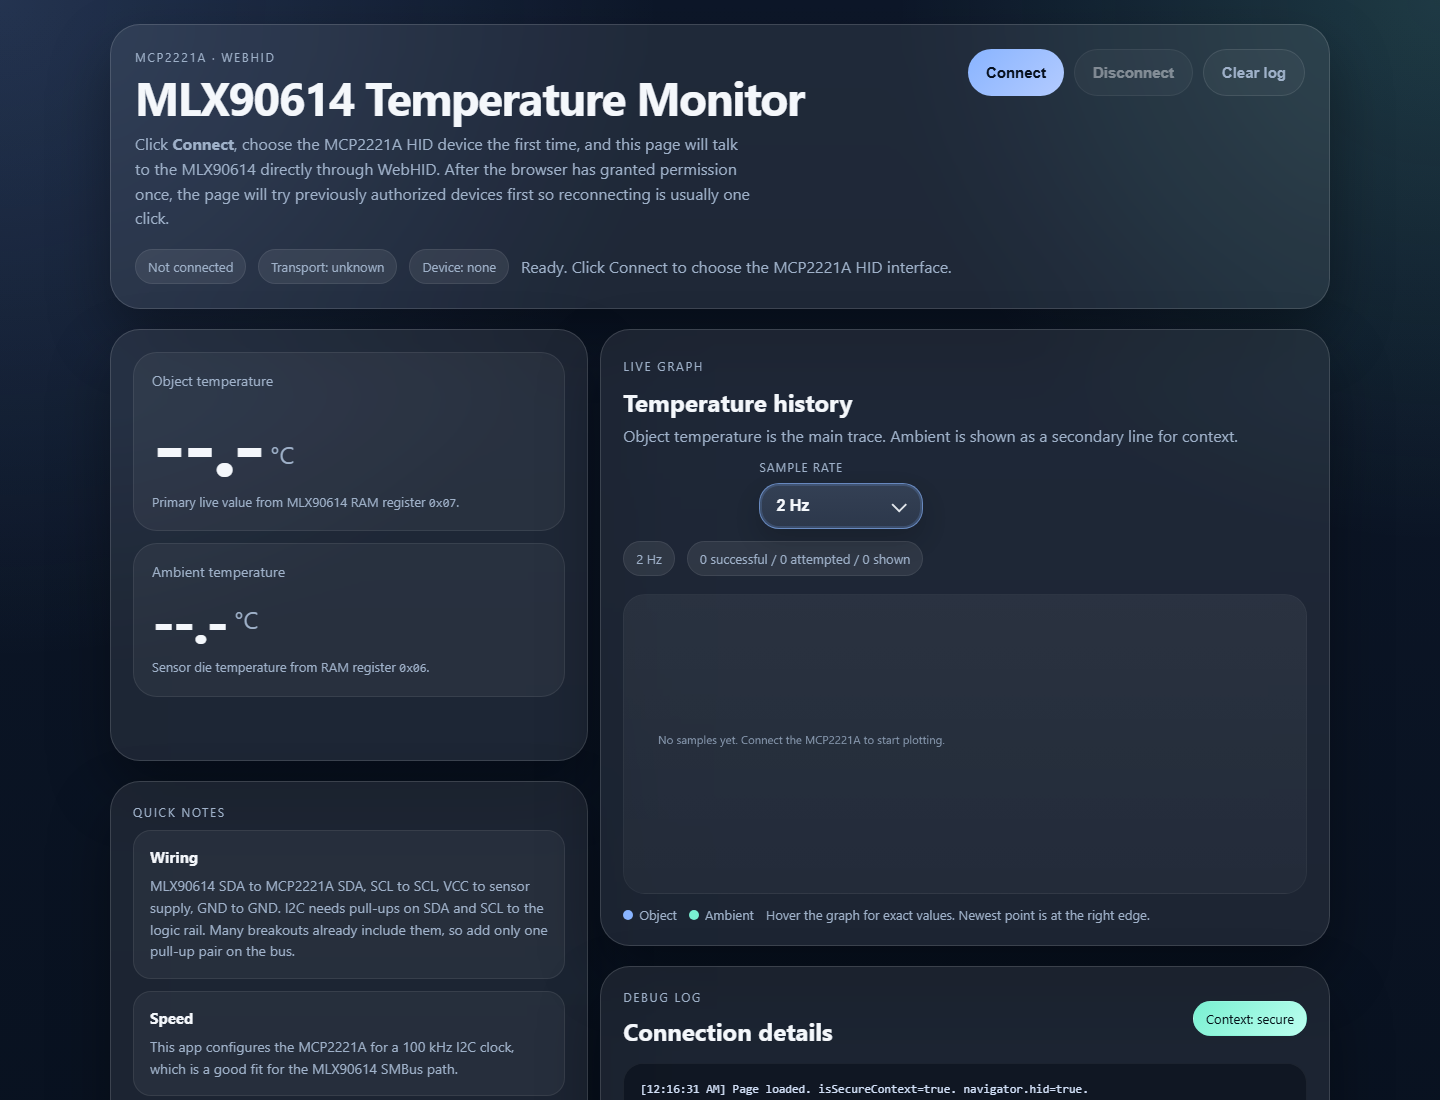
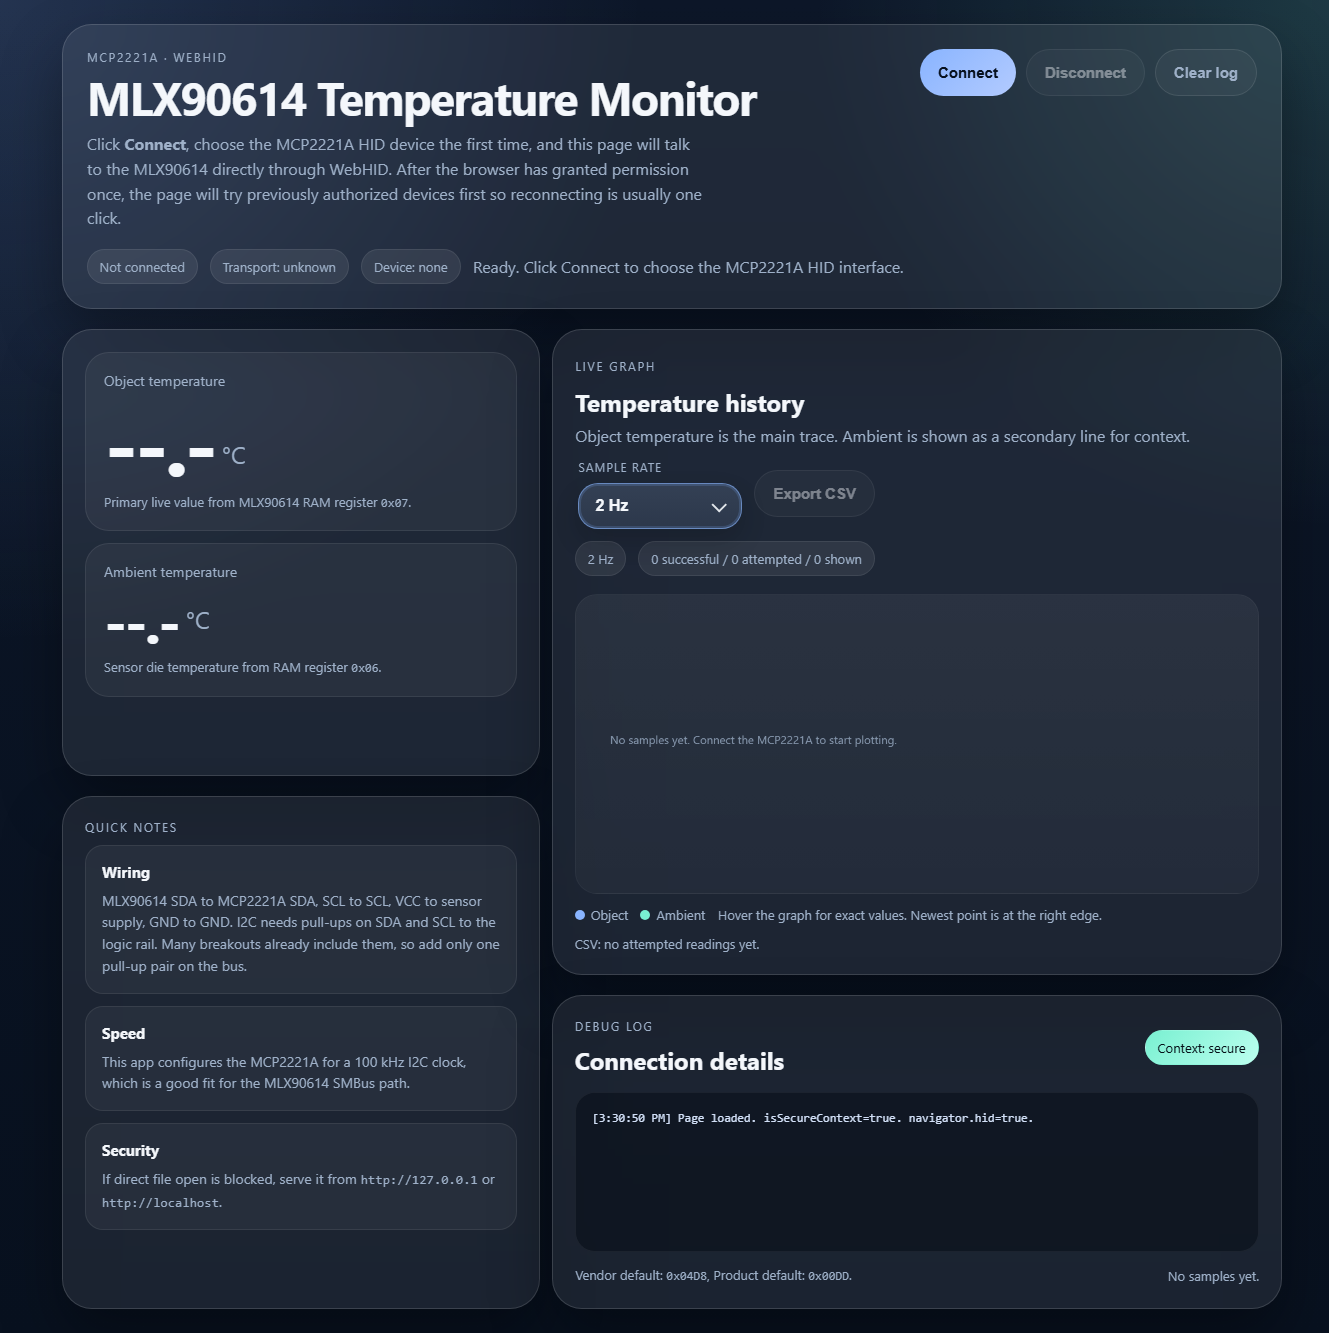
Add infrared dashboard CSV export and explain host timestamps

diff --git a/08_Software/mlx90614-webhid/mlx.html b/08_Software/mlx90614-webhid/mlx.html
@@ -615,6 +615,7 @@
                     </div>
                   </div>
                 </div>
+                <button id="exportCsvBtn" class="secondary" type="button" aria-describedby="csvMeta" disabled>Export CSV</button>
               </div>
               <div class="chip-row">
                 <span id="samplePill" class="pill">2 Hz</span>
@@ -632,6 +633,7 @@
             <span><span class="legend-dot dot-object"></span>Object</span>
             <span><span class="legend-dot dot-ambient"></span>Ambient</span>
             <span class="dim">Hover the graph for exact values. Newest point is at the right edge.</span>
+            <span id="csvMeta" class="dim">CSV: no attempted readings yet.</span>
           </div>
         </section>
 
@@ -662,6 +664,7 @@
     const I2C_CLOCK_HZ = 100000;
     const DEFAULT_SAMPLE_RATE_HZ = 2;
     const MAX_POINTS = 5000;
+    const MAX_CSV_ROWS = 10000;
     const MAX_LOG_LINES = 700;
     const INPUT_TIMEOUT_MS = 900;
     const OK_LOG_INTERVAL_MS = 1000;
@@ -670,6 +673,8 @@
     const els = {
       connectBtn: document.getElementById('connectBtn'),
       disconnectBtn: document.getElementById('disconnectBtn'),
+      exportCsvBtn: document.getElementById('exportCsvBtn'),
+      csvMeta: document.getElementById('csvMeta'),
       clearLogBtn: document.getElementById('clearLogBtn'),
       statusPill: document.getElementById('statusPill'),
       modePill: document.getElementById('modePill'),
@@ -701,6 +706,7 @@
       inputQueue: [],
       inputWaiters: [],
       history: [],
+      csvRows: [],
       totalSamples: 0,
       sampleAttempts: 0,
       lastReadAt: null,
@@ -817,6 +823,43 @@
       state.lastReadAt = Date.now();
       updateSampleMeta();
       drawChart();
+    }
+
+    function updateCsvMeta() {
+      els.exportCsvBtn.disabled = state.csvRows.length === 0;
+      els.csvMeta.textContent = state.csvRows.length
+        ? 'CSV: ' + state.csvRows.length.toLocaleString() + ' of ' + state.sampleAttempts.toLocaleString() + ' attempted readings retained (including errors).'
+        : 'CSV: no attempted readings yet.';
+    }
+
+    function retainCsvRow(row) {
+      state.csvRows.push(row);
+      if (state.csvRows.length > MAX_CSV_ROWS) state.csvRows.shift();
+      updateCsvMeta();
+    }
+
+    function csvCell(value) {
+      const text = String(value ?? '');
+      return /[",\r\n]/.test(text) ? '"' + text.replace(/"/g, '""') + '"' : text;
+    }
+
+    function buildCsv() {
+      const fields = ['sequence', 'timestamp_ms', 'timestamp_utc', 'status', 'object_c', 'ambient_c',
+        'object_raw', 'ambient_raw', 'acquisition_ms', 'recovered_register_reads', 'error_code', 'error'];
+      return [fields.join(','), ...state.csvRows.map(row => fields.map(field => csvCell(row[field])).join(','))].join('\r\n') + '\r\n';
+    }
+
+    function exportCsv() {
+      if (!state.csvRows.length) return;
+      const url = URL.createObjectURL(new Blob([buildCsv()], { type: 'text/csv;charset=utf-8' }));
+      const link = document.createElement('a');
+      link.href = url;
+      link.download = 'mlx90614_' + new Date().toISOString().replace(/[:.]/g, '-') + '.csv';
+      document.body.appendChild(link);
+      link.click();
+      link.remove();
+      setTimeout(() => URL.revokeObjectURL(url), 1000);
+      log('Exported CSV: ' + state.csvRows.length + ' of ' + state.sampleAttempts + ' attempted readings retained, including errors.');
     }
 
     function crc8(bytes) {
@@ -1302,9 +1345,32 @@
     async function sampleSensor() {
       state.sampleAttempts += 1;
       updateSampleMeta();
-      const ambient = await readValidatedMlxWord(MLX_RAM_AMBIENT, 'Ambient');
-      await sleep(state.sampleRateHz >= 10 ? 2 : 4);
-      const object = await readValidatedMlxWord(MLX_RAM_OBJECT_1, 'Object');
+      const started = performance.now();
+      const recoveredBefore = state.totalRecoveredReads;
+      const row = { sequence: state.sampleAttempts, status: 'error', object_c: '', ambient_c: '',
+        object_raw: '', ambient_raw: '', error_code: '', error: '' };
+      let ambient, object;
+      try {
+        ambient = await readValidatedMlxWord(MLX_RAM_AMBIENT, 'Ambient');
+        row.ambient_raw = hex(ambient.raw, 4);
+        await sleep(state.sampleRateHz >= 10 ? 2 : 4);
+        object = await readValidatedMlxWord(MLX_RAM_OBJECT_1, 'Object');
+        row.object_raw = hex(object.raw, 4);
+        row.object_c = Number(object.celsius.toFixed(4));
+        row.ambient_c = Number(ambient.celsius.toFixed(4));
+        row.status = 'ok';
+      } catch (error) {
+        row.error_code = error.code || '';
+        row.error = error.message || String(error);
+        throw error;
+      } finally {
+        // Host read completion, not the sensor's conversion time. Duration includes retries and waits.
+        row.timestamp_ms = Date.now();
+        row.timestamp_utc = new Date(row.timestamp_ms).toISOString();
+        row.acquisition_ms = Number((performance.now() - started).toFixed(4));
+        row.recovered_register_reads = state.totalRecoveredReads - recoveredBefore;
+        retainCsvRow(row);
+      }
 
       setTemps(object.celsius, ambient.celsius);
       addPoint(object.celsius, ambient.celsius);
@@ -1541,8 +1607,10 @@
         state.device = selectedDevice;
         state.transport = selectedTransport;
         state.history = [];
+        state.csvRows = [];
         state.totalSamples = 0;
         state.sampleAttempts = 0;
+        updateCsvMeta();
         state.lastReadAt = null;
         state.reconnectingAfterReset = false;
       state.hoverIndex = null;
@@ -1828,6 +1896,7 @@
 
     els.connectBtn.addEventListener('click', connect);
     els.disconnectBtn.addEventListener('click', () => disconnect());
+    els.exportCsvBtn.addEventListener('click', exportCsv);
     els.clearLogBtn.addEventListener('click', clearLog);
     els.sampleRateButton.addEventListener('click', event => {
       event.stopPropagation();

diff --git a/08_Software/mlx90614-webhid/README.md b/08_Software/mlx90614-webhid/README.md
@@ -26,7 +26,7 @@ Local serving requires Python 3. Checks require Node.js or installed desktop Vis
    powershell -NoProfile -ExecutionPolicy Bypass -File .\08_Software\mlx90614-webhid\tools\Check-Html.ps1 -Diagnostics
    ```
 
-   Expect `PASS` for active HTML and baseline syntax, then six diagnostic checks. Stop on any error. These tests use simulated failures and do not open USB hardware. On macOS/Linux or with Node already installed, run from the repository root:
+   Expect `PASS` for active HTML and baseline syntax, then eight diagnostic/CSV checks. Stop on any error. These tests use simulated failures and do not open USB hardware. On macOS/Linux or with Node already installed, run from the repository root:
 
    ```sh
    node 08_Software/mlx90614-webhid/tools/check_html.mjs
@@ -49,11 +49,31 @@ Local serving requires Python 3. Checks require Node.js or installed desktop Vis
 
 7. If a read fails, retain the debug log. An example failed-attempt entry is `Ambient register 0x06 read failed (attempt 1/2): ...`; the real message explains the failure. A transient failure displays **Retrying** while waiting for a valid pair. A startup error such as `I2C speed set failed ... 0x21` is a failure, even if SCL/SDA were high at one instant. Do not call the connection recovered until readings resume.
 
-8. Click **Disconnect** before closing the tab. Return to the server terminal and press **Ctrl+C**; the PowerShell prompt returning confirms the server stopped. Unplug the bridge only after its clients are closed if needed. The app keeps data in memory; reloading clears the displayed chart/log.
+8. Click **Export CSV** beside the chart's sample-rate control. Expect a file named `mlx90614_<UTC date-time>.csv` in Chrome/Edge's download folder; open **Downloads** with **Ctrl+J** to locate it. Export includes the latest **10,000 attempted pairs**, including errors, while the chart keeps the latest 5,000 successful pairs. The chart footer states retained/attempted CSV counts. Export can run during acquisition or after disconnecting. If the button is disabled, no reading attempt has completed yet. Export before reconnecting or reloading, which clear the CSV buffer.
 
-Optional direct-file method: in **File Explorer**, locate `08_Software\mlx90614-webhid\mlx.html`, right-click **Open with > Google Chrome** or **Microsoft Edge**, then follow steps 5–8. If device access is blocked under `file://`, use the loopback server above. The loopback method is the documented reference.
+9. Click **Disconnect** before closing the tab. Return to the server terminal and press **Ctrl+C**; the PowerShell prompt returning confirms the server stopped. Unplug the bridge only after its clients are closed if needed. The app keeps data in memory; reloading clears the displayed chart/log and CSV buffer. Downloaded files remain on your computer.
+
+Optional direct-file method: in **File Explorer**, locate `08_Software\mlx90614-webhid\mlx.html`, right-click **Open with > Google Chrome** or **Microsoft Edge**, then follow steps 5-9. If device access is blocked under `file://`, use the loopback server above. The loopback method is the documented reference.
 
 Optional VS Code tasks: choose **Terminal > Run Task > Check HTML and simulated diagnostics**, or **Serve MLX90614 app on localhost:8000**. Stop the server with Ctrl+C in its dedicated task terminal. The server task requires Python on PATH.
+
+## CSV columns and timing
+
+One row represents one attempted ambient/object pair, including the initial connection sample. `ok` requires both validated words; a failed partial pair has blank Celsius values and retains any validated partial raw word. Register retries remain in the debug log and are included in the acquisition duration.
+
+| Column | Meaning |
+| --- | --- |
+| `sequence` | Attempt number within this connection; remains unchanged when older rows leave the buffer |
+| `timestamp_ms` | PC read-completion time, Unix milliseconds since `1970-01-01T00:00:00Z` |
+| `timestamp_utc` | The same completion time as a readable ISO UTC date, ending in `Z` |
+| `status` | `ok` or `error` for the complete pair |
+| `object_c`, `ambient_c` | Valid pair temperatures in Celsius; blank for failed pairs |
+| `object_raw`, `ambient_raw` | Validated 16-bit sensor words in hexadecimal, prefixed `0x`; unavailable words are blank |
+| `acquisition_ms` | Elapsed host time for the pair, including USB/I2C operations, retry waits and the inter-register delay; measured using a monotonic clock |
+| `recovered_register_reads` | Number of registers that succeeded after a retry within this pair |
+| `error_code`, `error` | Final pair failure code, when available, and message; blank for successful pairs |
+
+For example, `timestamp_ms = 1791662872046` is `2026-10-10T20:07:52.046Z`, or **October 10 at 1:07:52.046 PM PDT**. `acquisition_ms = 23.7189` is a **23.7189 ms read duration**. These are host timings; the sensor does not supply its conversion timestamp. The local chart displays times in the browser's timezone. Export saves a snapshot without clearing the buffer or stopping acquisition. Download periodically during long sessions; older attempts beyond 10,000 are discarded, and exporting does not append to a previous download.
 
 ## Reuse, editing and restart
 

diff --git a/05_Data/VALIDATION.md b/05_Data/VALIDATION.md
@@ -13,12 +13,15 @@ Updated: **2026-10-10**. This record separates software/publication checks, meas
 | Simulated pair accounting | PASS: a partial pair is not plotted; successful and attempted pair counts differ correctly |
 | Simulated failure status | PASS: failed poll logged, counted and shown as waiting for a valid sample; no premature recovery claim |
 | Simulated bounded log | PASS: latest 700 lines retained and rendered with real newline characters |
+| MLX90614 CSV accounting and format | PASS: valid and failed pairs retained, failed partial temperatures blank, validated partial raw words kept, UTC/Unix completion timestamps agree, acquisition duration and recovered-register count exported; commas, quotes and embedded error newlines correctly escaped. Eight diagnostic/CSV checks passed without USB access. |
+| MLX90614 CSV retention | PASS: at attempt 10,001 the newest 10,000 rows are retained with original sequence numbers; retained/attempted counts disclosed in the chart footer. Reconnection clears the buffer; disconnect and export retain it. |
+| MLX90614 Chrome CSV download | PASS: actual button downloaded exact CSV bytes for three simulated attempts (two valid, one failed), with the error preserved; empty-state button disabled, export retains the buffer, 390 px layout has no horizontal overflow, zero JavaScript exceptions. No physical bridge was opened. Disconnected README screenshot updated. |
 | Chrome local smoke | PASS: edited HTML initializes over temporary loopback HTTP; browser exit 0, expected title/Connect/five rates, secure context and `navigator.hid=true`. No Connect click/USB operation occurred. Temporary server/profile cleaned up. |
 | Project links/configuration | Final Markdown, task JSON, workflow packaging and current manifest checked before initial commit |
 | Privacy review | Public candidates, selected logs, cropped image, original text and ZIP contents reviewed; no credential/private-key patterns or confidential content identified. Local backups/ZIPs/older apps/helper binaries excluded by ignore rules. |
 | GitHub repository | PASS: [robomaniac/mlx90614-mcp2221a](https://github.com/robomaniac/mlx90614-mcp2221a) is PUBLIC with default branch main; reviewed files pushed using existing verified Git credentials in memory and a noreply commit identity |
 | GitHub Pages deployment | PASS: [initial validation and deploy jobs](https://github.com/robomaniac/mlx90614-mcp2221a/actions/runs/38032744375) succeeded; workflow publishing with HTTPS enforced |
[2 lines of base64/hex data omitted]
 | README refresh (2026-10-10) | Public browser-app/hardware-library examples and existing folder guidance reviewed. Root README rewritten for project users; actual disconnected-interface screenshot captured and inspected, with no private information or invented sensor readings. Documentation links, UTF-8, privacy patterns and manifest rechecked. |
 | Browser hardware after edits | **Pending**. No physical bridge/sensor session using the edited browser HTML; its measured rate, reconnect reliability and accuracy remain unverified. Native-demo results below do not validate browser transport. |
 | Separate native demo (2026-10-10) | PASS: Windows x64 CPython 3.11.15, Cython 3.3.0, HIDAPI 0.15.0 and portable Zig 0.15.2 build/import. All 23 fake-HID/scheduler tests passed, covering validation, reset guard, retained failures, window/deadline accounting, interrupts, unpaced operation without target waits and stopping after failed cancellation. |

diff --git a/README.md b/README.md
@@ -18,6 +18,7 @@ I wanted a simple way to see infrared temperature readings and a live graph with
 - **1, 2, 4, 5 and 10 Hz** sample-rate controls.
 - Remembered device permission for easier reconnecting.
 - Successful and attempted sample counts, with failed reads retained in the debug log.
+- **CSV export** of the latest 10,000 attempted pairs, including errors, readable UTC timestamps and acquisition duration.
 - One HTML file with embedded CSS and JavaScript; processing stays in your browser.
 
 ## Use it
@@ -26,7 +27,8 @@ I wanted a simple way to see infrared temperature readings and a live graph with
 2. Select **2 Hz** and click **Connect**. Choose the MCP2221A in the device chooser if prompted; previously granted permission may be reused automatically.
 3. Expect changing object/ambient readings and growing chart points. Hover over the chart to inspect individual samples. The debug log should show an initial sample and periodic `Read OK` entries.
 4. Try other sample rates as needed. **10 Hz is a requested rate**; actual successful throughput depends on the hardware and read retries. Keep failed-read logs when troubleshooting.
-5. Click **Disconnect** before closing the tab. Reloading starts a fresh chart and log.
+5. Click **Export CSV** beside the sample-rate control to save the retained readings to your browser's download folder. Export works while reading or after **Disconnect**; it does not stop acquisition. The chart footer shows how many attempts remain available.
+6. Click **Disconnect** before closing the tab. Export before reconnecting or reloading; these start a fresh chart and CSV buffer.
 
 For local editing, follow the [complete VS Code / PowerShell setup guide](08_Software/mlx90614-webhid/README.md#local-setup-and-operation). It includes exact check/server commands, expected results, restart instructions and cleanup. An existing local server can be reused after saving and reloading the HTML; there is no build or firmware-flash step.
 

diff --git a/08_Software/qwiic-thermocouple/README.md b/08_Software/qwiic-thermocouple/README.md
@@ -85,6 +85,21 @@ The actual sensor returned device ID **`0x4014`**, sensor configuration **`0x00`
 
 Use the board's actual signal labels and existing compatible pull-ups. Connect the thermocouple to the amplifier's marked **+ / −** terminals or matching PCC connector. See the [SparkFun hookup guide](https://learn.sparkfun.com/tutorials/sparkfun-qwiic-thermocouple-hookup-guide), [board hardware](https://github.com/sparkfun/Qwiic_Thermocouple_Amplifer), and [Microchip datasheet](https://ww1.microchip.com/downloads/en/DeviceDoc/MCP960X-L0X-RL0X-Data-Sheet-20005426F.pdf).
 
+## CSV timestamps and columns
+
+| Column | Meaning |
+| --- | --- |
+| `sequence` | Attempt number within this connection, including failed attempts |
+| `timestamp_ms` | Time the PC finished the read attempt, in Unix milliseconds since `1970-01-01T00:00:00Z` |
+| `status` | `ok` for a valid pair, or `error` for a failed pair |
+| `hot_c`, `cold_c` | Thermocouple tip and board cold-junction temperatures in Celsius |
+| `hot_raw`, `cold_raw` | Sensor temperature words in hexadecimal, decoded as signed 16-bit values at 0.0625 °C/LSB |
+| `sensor_status` | Status-register byte as a decimal integer |
+| `acquisition_ms` | Duration of the status → probe → board → status USB/I2C read, in milliseconds; measured using the host's monotonic clock |
+| `error_code`, `error` | Failure code and message; blank for successful pairs |
+
+In the example `timestamp_ms = 1791662872046`, the time is **2026-10-10 20:07:52.046 UTC**, or **1:07:52.046 PM PDT**. `acquisition_ms = 23.7189` means the read took **23.7189 milliseconds**, approximately 0.02372 seconds. The timestamp dates the completed attempt; it is not the sensor's internal conversion time. Acquisition duration does not set the polling interval or sensor conversion rate. The dashboard displays local times; Unix timestamps identify the same instant in every timezone.
+
 ## Timing and limits
 
 | Topic | Behavior / limit |
